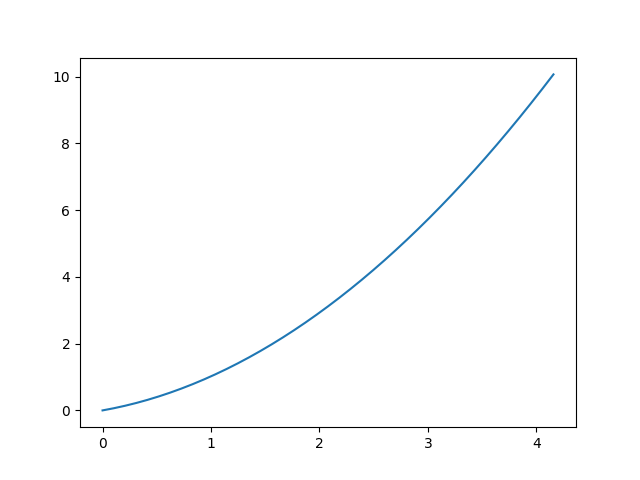
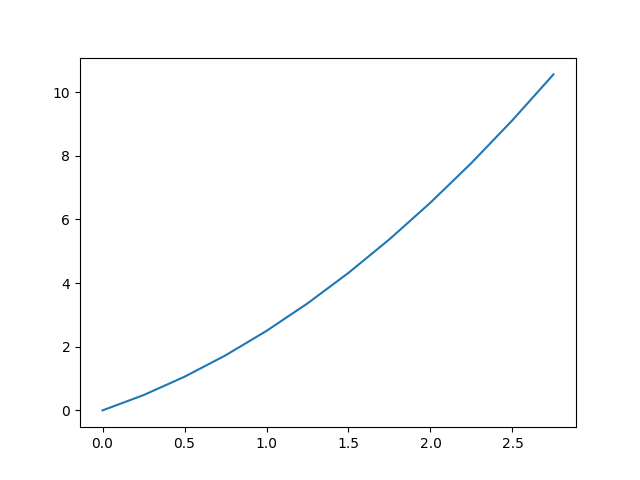
Updating issues solved

diff --git a/templates/index.html b/templates/index.html
@@ -9,5 +9,5 @@
 		{{ render_field(form.particle) }}
 		<button type="submit">Send</button>
 	</form>
-	<img src="static/new_plot.png" alt="Chart" height="420" width="420">
+	<img src={{ _url }} alt="Chart" height="420" width="420">
 {% endblock  %}

diff --git a/Main.py b/Main.py
@@ -8,13 +8,20 @@ from matplotlib.backends.backend_agg import FigureCanvasAgg as FigureCanvas
 from matplotlib.figure import Figure
 
 
+number = 0
+url = ''
+
 app = Flask(__name__, template_folder = "templates")
 @app.route('/', methods = ['GET','POST'])
 
 def index():
 	particle_form = forms.particularInfo(request.form)
-	if request.method == 'POST' and particle_form.validate():	
-		fig = Graph.graph(particle_form.Vp.data,particle_form.Ang.data,particle_form.Field.data)
-	return render_template('index.html', form = particle_form)
+	if request.method == 'POST' and particle_form.validate():
+		global number
+		number += 1
+		global url
+		url = 'static/new_plot'+str(number)+'.png'
+		fig = Graph.graph(particle_form.Vp.data,particle_form.Ang.data,particle_form.Field.data, url)
+	return render_template('index.html', form = particle_form, _url = url)
 if __name__ == '__main__':
-    app.run(debug = True)	
+    app.run(debug = True, port = 8000)	

diff --git a/Graph.py b/Graph.py
@@ -10,7 +10,7 @@ from matplotlib.figure import Figure
 
 
 
-def graph(vel, ang, field):
+def graph(vel, ang, field, url):
 	xAxis = []
 	yAxis= []
 	
@@ -18,7 +18,7 @@ def graph(vel, ang, field):
 	#Angulo
 	Ang = ang
 	#Radianes
-	rad = (Ang*math.pi)/180
+	rad = math.radians(Ang)
 	#Vel prueba
 	Vp = vel
 	#Vel x
@@ -46,8 +46,9 @@ def graph(vel, ang, field):
 	    yAxis.append(currentH)
 	d = {'x':xAxis,'y':yAxis}
 	df = pd.DataFrame(data=d)
+	print(df)
 	plt.plot(df['x'], df['y'])
-	plt.savefig('static/new_plot.png')
+	plt.savefig(url)
 	plt.close()
 
 		
